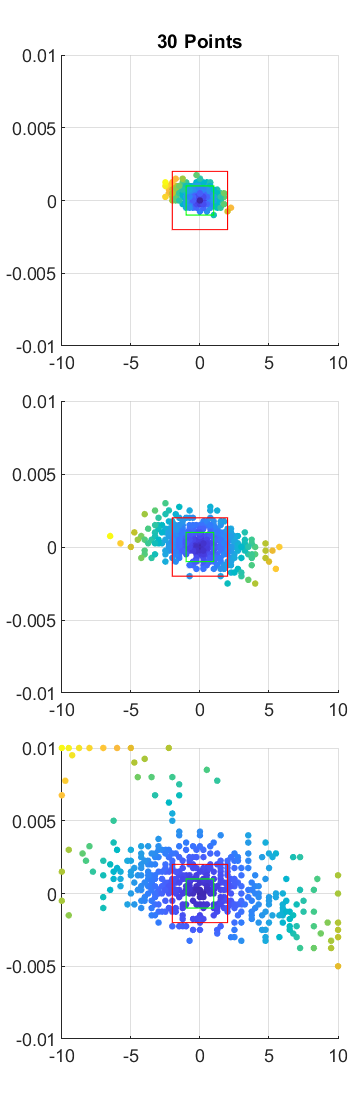
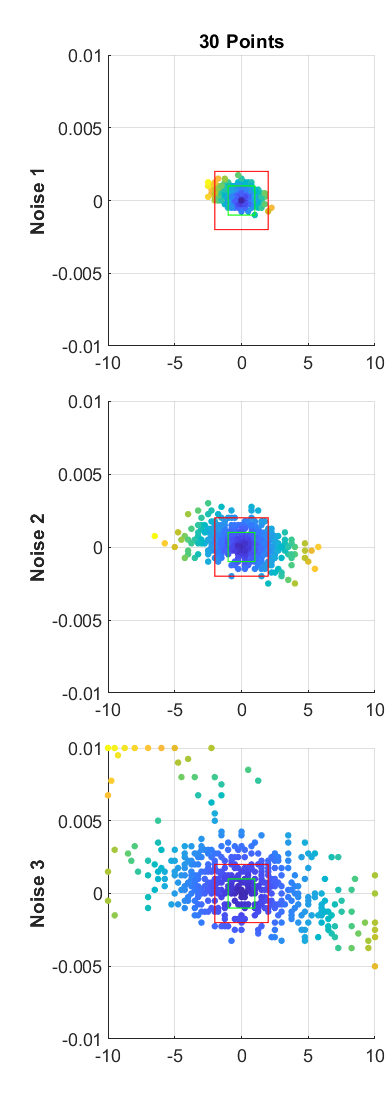
generate result from well-distributed points 1

diff --git a/results/display_min2.m b/results/display_min2.m
@@ -4,7 +4,7 @@ addpath('..\functions\display\subaxis');
 % load the data;
 % filenames        = {'tibia_gmm_scale20', 'tibia_gmm_scale30', 'tibia_gmm_scale40', 'tibia_rmse'};
 filenames        = {'tibiawd1_gmm_scale40_500', 'tibiawd1_rmse_500'};
-current_filename = filenames{2};
+current_filename = filenames{1};
 load(strcat(current_filename, '.mat'));
 
 % get the information from the trials
@@ -36,7 +36,7 @@ end
 
 % setup for the figure
 % figure1       = figure('Name', 'Min Cost Function', 'Position', [50 50 900 700]);
-figure1       = figure('Name', 'Min Cost Function', 'Position', [50 50 225 700]);
+figure1       = figure('Name', 'Min Cost Function', 'Position', [50 50 250 700]);
 subplot_idx   = 1;
 
 % loop for all noises (figure's row)
@@ -56,7 +56,7 @@ for noise=1:length(noises)
         
         % setting up the figure
         % subaxis(3,4, subplot_idx, 'Spacing', 0.05, 'MarginLeft',0.075,'MarginRight',0.01,'MarginTop',0.05,'MarginBottom',0.05 );
-        subaxis(3,1, subplot_idx, 'Spacing', 0.05, 'MarginLeft',0.175,'MarginRight',0.040,'MarginTop',0.05,'MarginBottom',0.05 );
+        subaxis(3,1, subplot_idx, 'Spacing', 0.05, 'MarginLeft',0.275,'MarginRight',0.040,'MarginTop',0.05,'MarginBottom',0.05 );
         
         % make a scatter plot
         scatter_size = 10;
